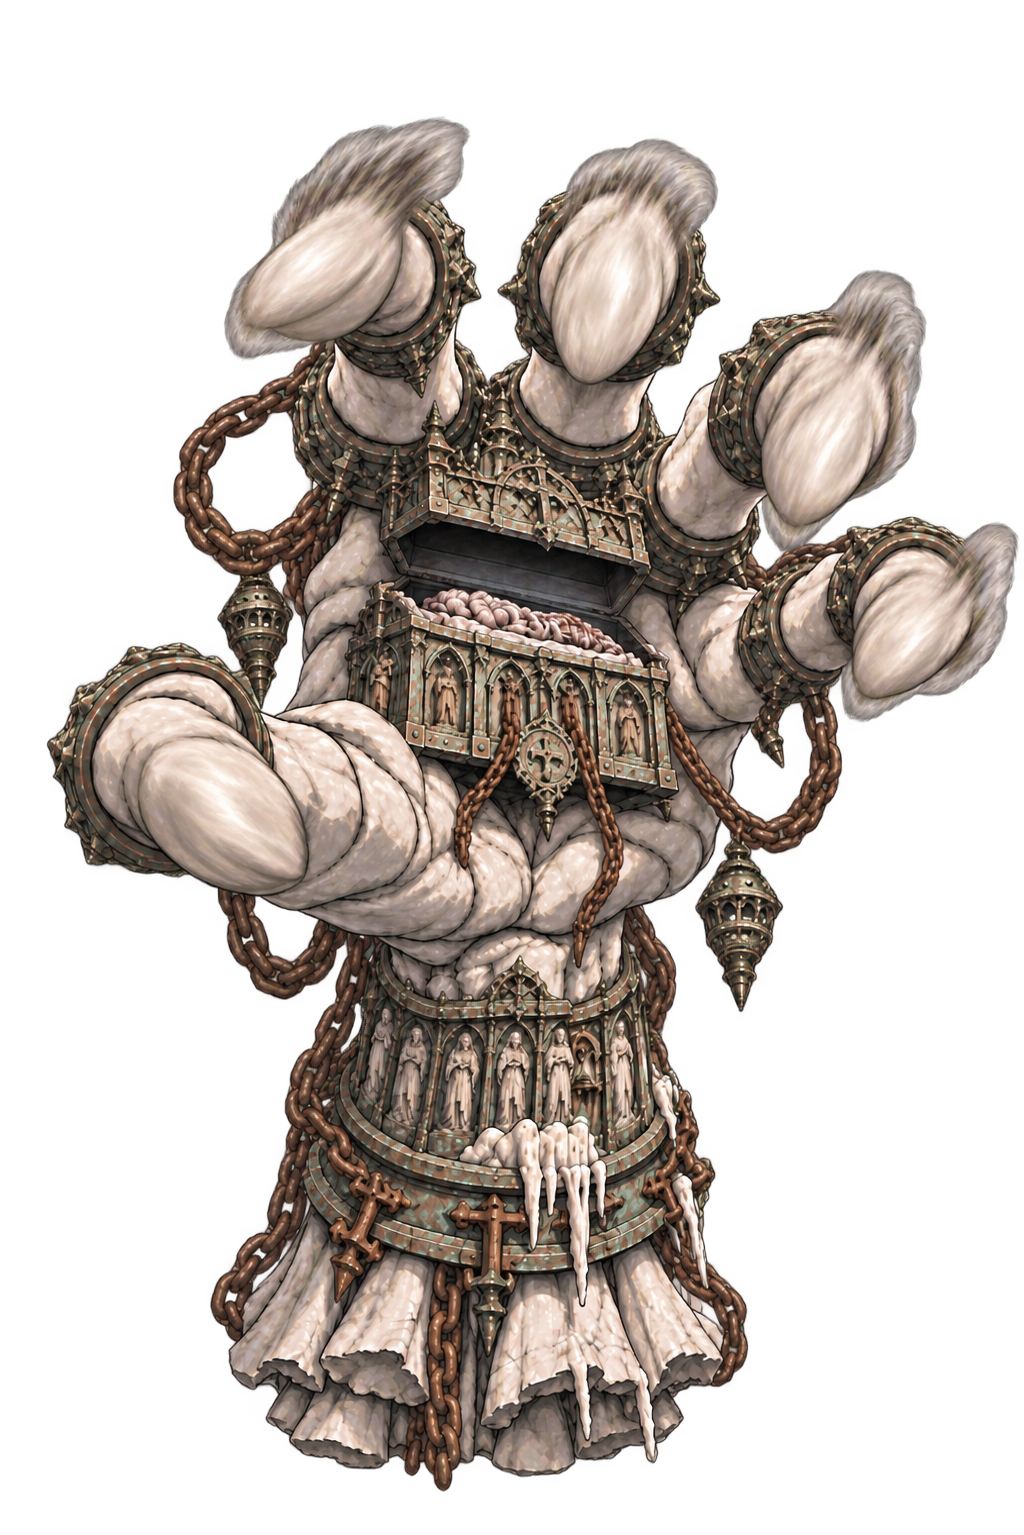
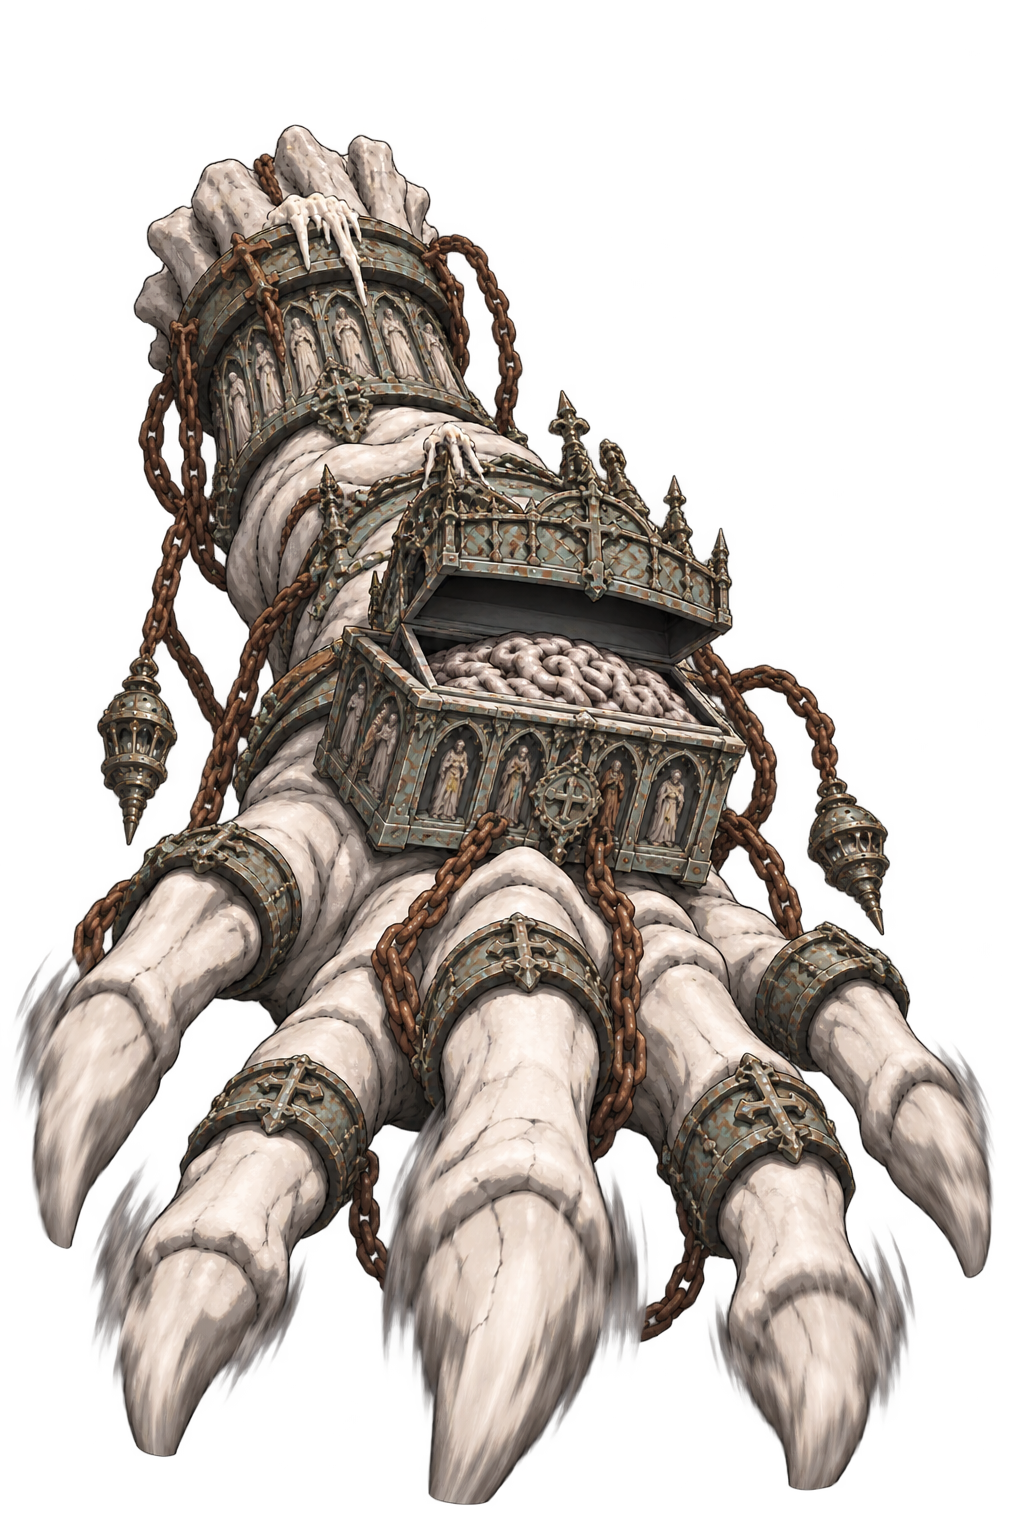
敵人：聖匣之手 B 第三版（往前倒、爪觸地）

diff --git a/tools/enemy_review/tomb_redo2.html b/tools/enemy_review/tomb_redo2.html
@@ -29,7 +29,7 @@ const L=[
  ['arch_warden','拱門守衛','拱門陰影裡鑽出怪物，雙爪撲向鏡頭'],
  ['crypt_hound','墓犬','正面撲向鏡頭（⚠ 嘴是齜牙，沒張口咬下）'],
  ['chain_hanged','吊鍊屍','盪過來、雙爪往鏡頭耙；比原圖大（去背重做：GPT 重繪）'],
- ['reliquary_hand','聖匣之手','11-22 再重出：五指（左拇指＋四指）、顏色照原圖；其他 4 張已在跑 Wan'],
+ ['reliquary_hand','聖匣之手','11-22 第三版：整隻手往前倒、爪尖觸地（五指、原色）；其他 4 張已在跑 Wan'],
  ['grave_censer','墓香爐','雙香爐用鏈條甩向鏡頭（11-22 改：用甩的）'],
 ];
 const g=document.getElementById('g');
